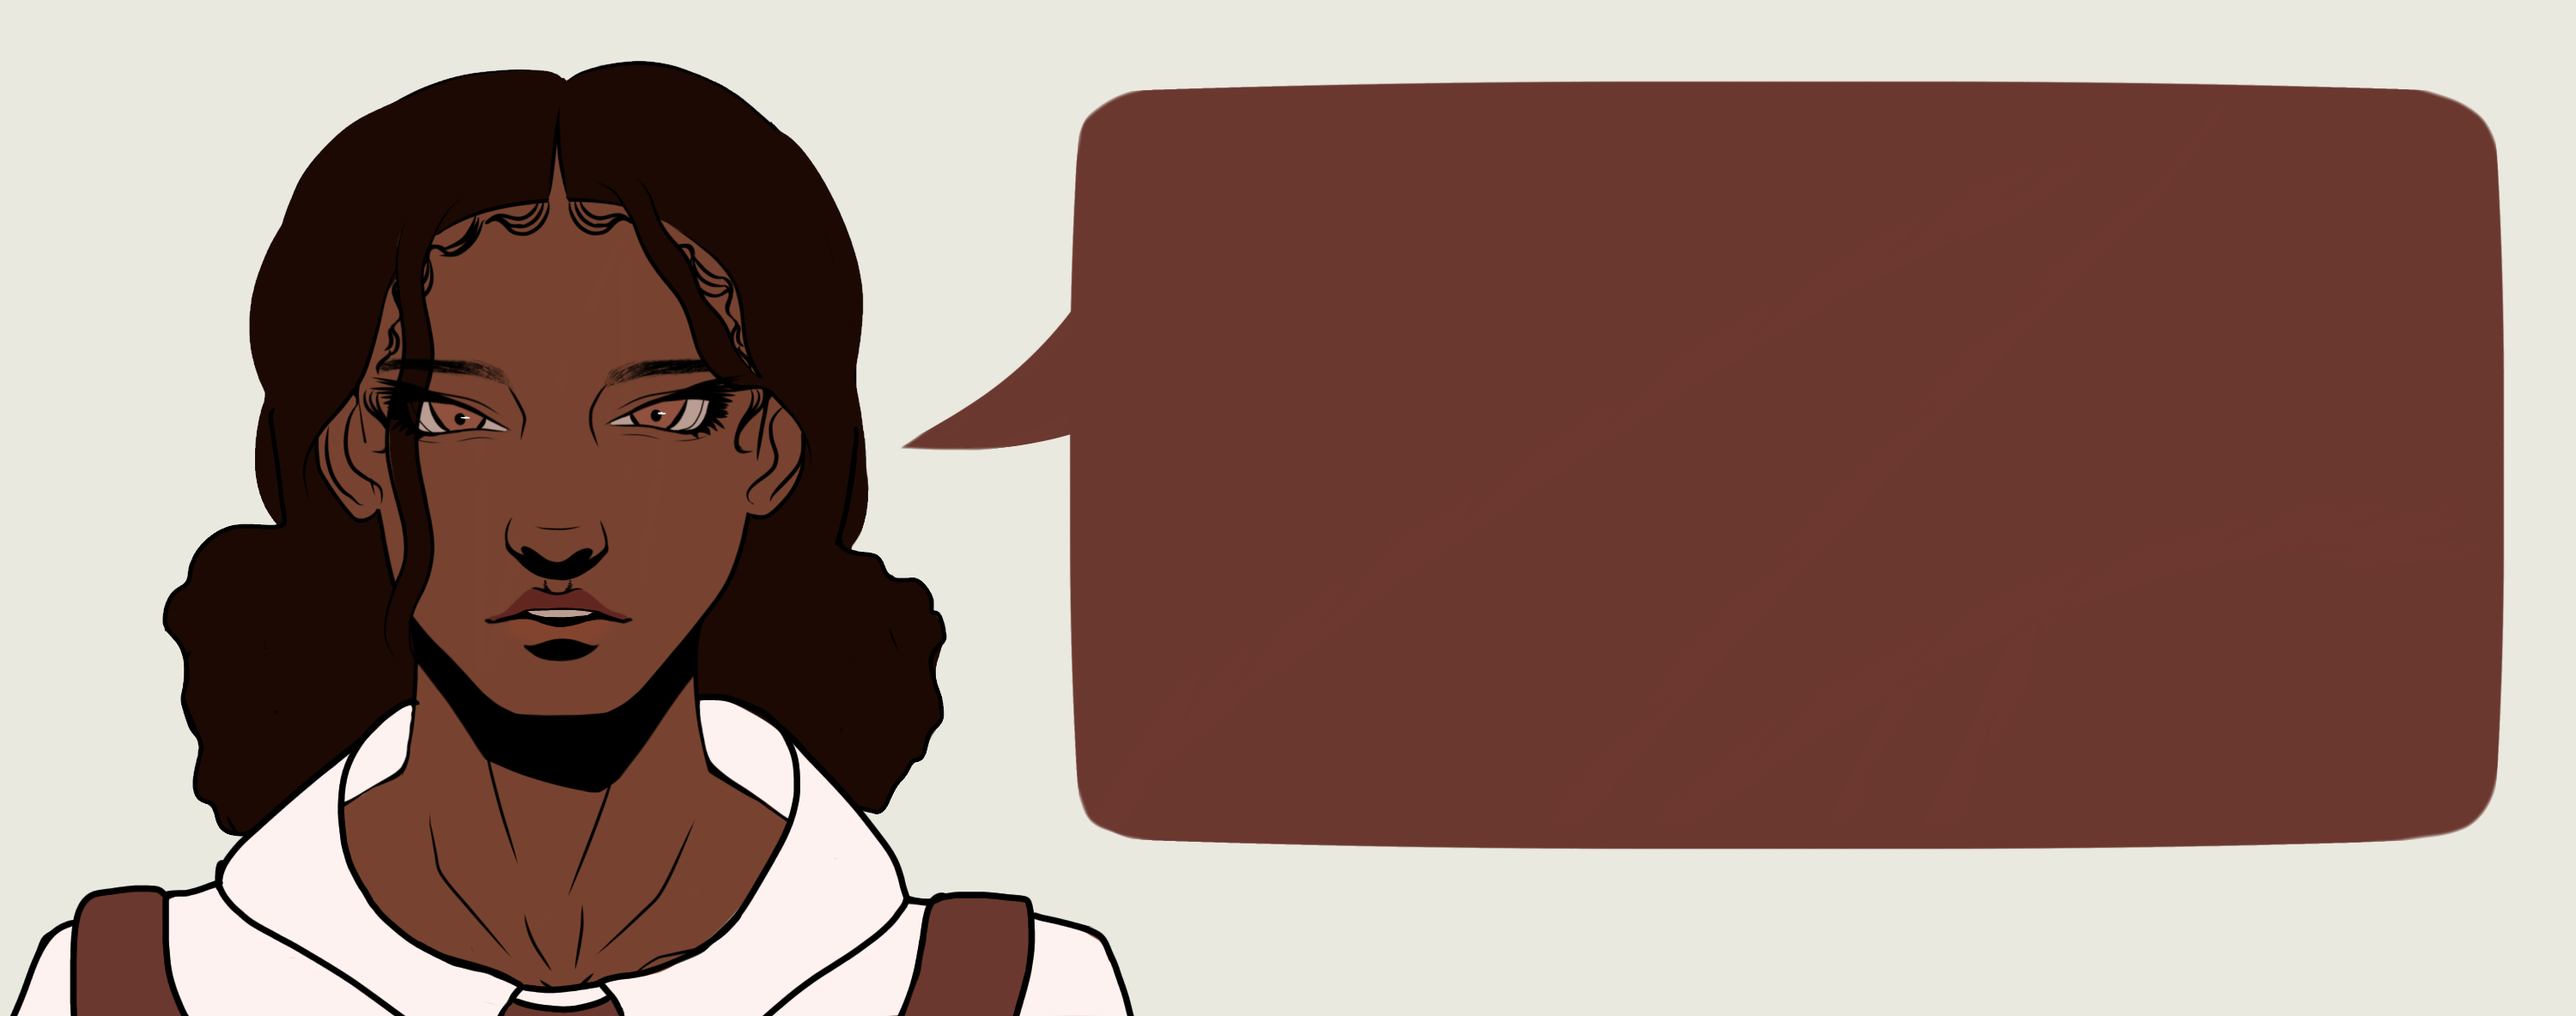
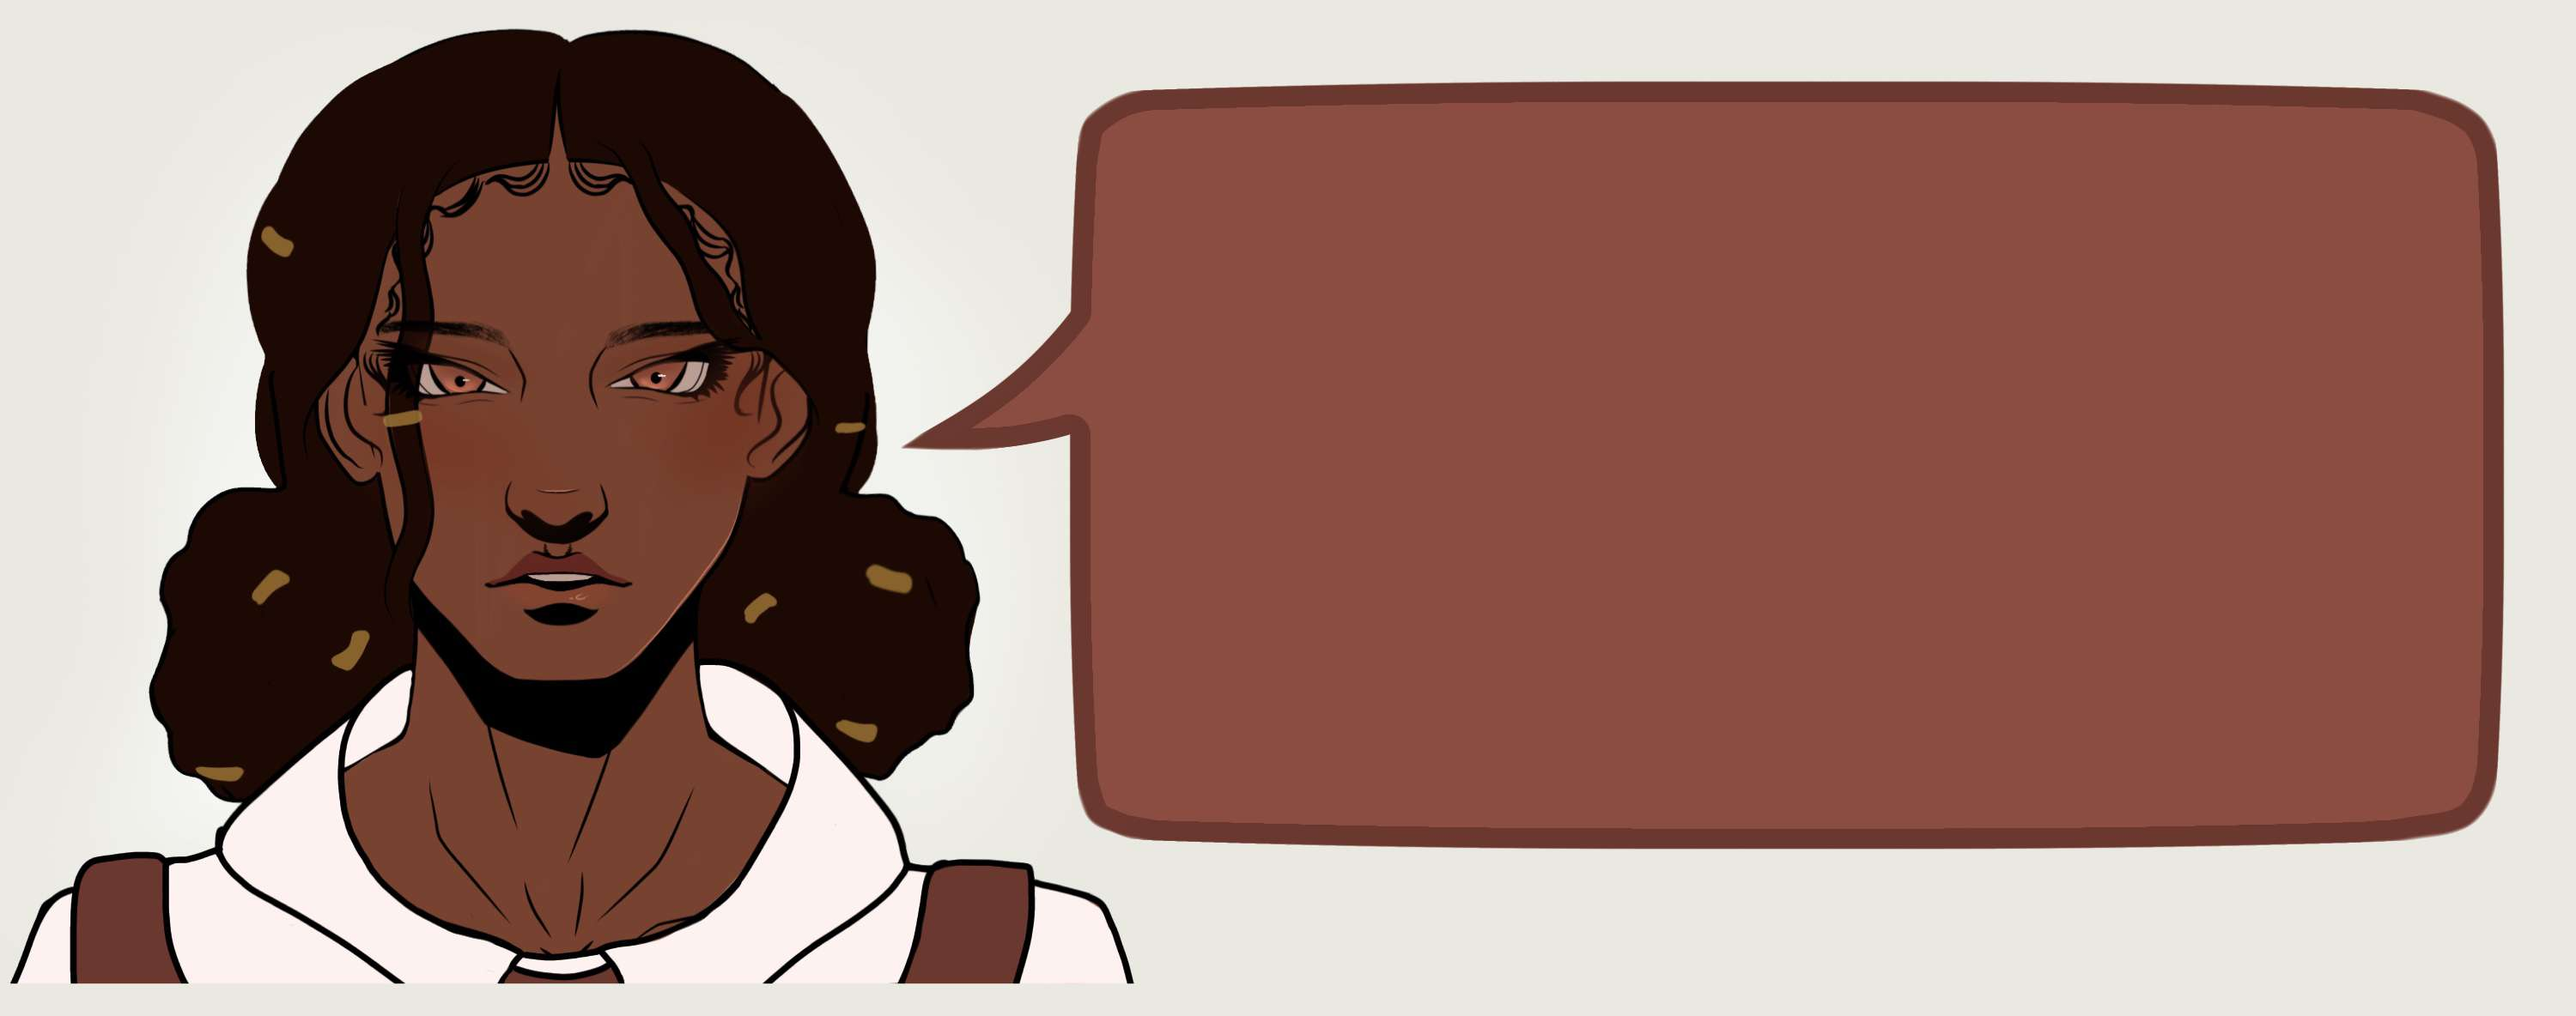
Added a streak counter for hiragana

diff --git a/Fun_Japanese_learning_GUI.py b/Fun_Japanese_learning_GUI.py
@@ -38,6 +38,7 @@ target_lt =None
 romaji = None
 entry_key = None
 feedback_label = None
+feedback = None
 
 
 
@@ -192,7 +193,7 @@ def kanji_mid():
 
 
 def hira_m():
-    global target_l,one,two,three,four, feedback_label
+    global target_l,one,two,three,four, feedback_label,feedback
     ext.page = 1
     side_bar()
 
@@ -201,23 +202,23 @@ def hira_m():
     feedback = ctk.CTkLabel(main_frame, fg_color=linen, image=ext.chest_begin_image, text="")
     feedback.place(relx = 0.57, rely = 0.24, relwidth = 0.75, relheight = 0.4, anchor = ctk.CENTER)
 
-    feedback_f = ctk.CTkFrame(main_frame, fg_color=dbrown,corner_radius=0, bg_color="transparent" )
-    feedback_f.place(relx=.715, rely=.22, relwidth=.4, relheight=.27, anchor = ctk.CENTER)
+    feedback_f = ctk.CTkFrame(main_frame, fg_color=brown,corner_radius=0, bg_color="transparent" )
+    feedback_f.place(relx=.715, rely=.22, relwidth=.4, relheight=.17, anchor = ctk.CENTER)
 
-    feedback_label = ctk.CTkLabel(feedback_f, fg_color=dbrown,corner_radius=0, bg_color="transparent", justify = "center", text = "Press the option that you believe to be correct to get started.", wraplength=330,font=(coolfont,18) )
+    feedback_label = ctk.CTkLabel(feedback_f, fg_color=brown,corner_radius=0, bg_color="transparent", justify = "center", text = "Press the option that you believe to be correct to get started.", wraplength=330,font=(coolfont,18) )
     feedback_label.place(relx=.5, rely=.5, relwidth=1, relheight=1, anchor = ctk.CENTER)
     
 
     target_l = ctk.CTkLabel(main_frame, fg_color=brown, border_color=dbrown, border_width=5, corner_radius=5, font=(coolfont,55, "bold"))
     target_l.place(relx= 0.57, rely= 0.5, relwidth = 0.8, relheight = 0.2, anchor = ctk.CENTER )
 
-    one = ctk.CTkButton(main_frame, fg_color=brown, corner_radius=5, border_color=dbrown, font=(coolfont,40, "bold"), border_width=5, hover_color=dbrown, command=lambda: ncp.check_answer(button = one, target_l=target_l, one=one, two=two, three=three, four=four, target_lt=target_lt, romaji=romaji, feedback_label=feedback_label))
+    one = ctk.CTkButton(main_frame, fg_color=brown, corner_radius=5, border_color=dbrown, font=(coolfont,40, "bold"), border_width=5, hover_color=dbrown, command=lambda: ncp.check_answer(button = one, target_l=target_l, one=one, two=two, three=three, four=four, target_lt=target_lt, romaji=romaji, feedback_label=feedback_label,feedback=feedback))
     one.place(relx = 0.37, rely = .7, relwidth = .37, relheight = 0.17, anchor = ctk.CENTER)
-    two = ctk.CTkButton(main_frame, fg_color=brown, corner_radius=5, border_color=dbrown, font=(coolfont,40, "bold"), border_width=5, hover_color=dbrown, command=lambda: ncp.check_answer(button = two, target_l=target_l, one=one, two=two, three=three, four=four, target_lt=target_lt, romaji=romaji, feedback_label=feedback_label))
+    two = ctk.CTkButton(main_frame, fg_color=brown, corner_radius=5, border_color=dbrown, font=(coolfont,40, "bold"), border_width=5, hover_color=dbrown, command=lambda: ncp.check_answer(button = two, target_l=target_l, one=one, two=two, three=three, four=four, target_lt=target_lt, romaji=romaji, feedback_label=feedback_label,feedback=feedback))
     two.place(relx = 0.77, rely = .7, relwidth = .37, relheight = 0.17, anchor = ctk.CENTER)
-    three = ctk.CTkButton(main_frame, fg_color=brown, corner_radius=5, border_color=dbrown, font=(coolfont,40, "bold"), border_width=5, hover_color=dbrown, command=lambda: ncp.check_answer(button = three, target_l=target_l, one=one, two=two, three=three, four=four, target_lt=target_lt, romaji=romaji, feedback_label=feedback_label))
+    three = ctk.CTkButton(main_frame, fg_color=brown, corner_radius=5, border_color=dbrown, font=(coolfont,40, "bold"), border_width=5, hover_color=dbrown, command=lambda: ncp.check_answer(button = three, target_l=target_l, one=one, two=two, three=three, four=four, target_lt=target_lt, romaji=romaji, feedback_label=feedback_label,feedback=feedback))
     three.place(relx = 0.37, rely = .88, relwidth = .37, relheight = 0.17, anchor = ctk.CENTER)
-    four = ctk.CTkButton(main_frame, fg_color=brown, corner_radius=5, border_color=dbrown, font=(coolfont,40, "bold"), border_width=5, hover_color=dbrown, command=lambda: ncp.check_answer(button = four, target_l=target_l, one=one, two=two, three=three, four=four, target_lt=target_lt, romaji=romaji, feedback_label=feedback_label))
+    four = ctk.CTkButton(main_frame, fg_color=brown, corner_radius=5, border_color=dbrown, font=(coolfont,40, "bold"), border_width=5, hover_color=dbrown, command=lambda: ncp.check_answer(button = four, target_l=target_l, one=one, two=two, three=three, four=four, target_lt=target_lt, romaji=romaji, feedback_label=feedback_label,feedback=feedback))
     four.place(relx = 0.77, rely = .88, relwidth = .37, relheight = 0.17, anchor = ctk.CENTER)
 
 def kana_m():

diff --git a/Nihongo_Charater_Practice.py b/Nihongo_Charater_Practice.py
@@ -24,6 +24,7 @@ now = dt.datetime.now()
 target = []
 final = []
 advanced = False
+streak = 0
 
 def status_check():
     global queue, now, advanced
@@ -90,16 +91,26 @@ def load_new_deck(target_l, one, two, three, four, target_lt, romaji):
             
 
 
-def check_answer(button, target_l, one, two, three, four, target_lt,romaji,feedback_label):
-    global target, now
+def check_answer(button, target_l, one, two, three, four, target_lt,romaji,feedback_label, feedback):
+    global target, now, streak
     now = dt.datetime.now()
     tries = 0
+   
     if ext.page == 1 or ext.page == 2:
         user_ans = button.cget("text")
     elif ext.page == 5:
          user_ans = romaji.get().strip().lower()
     if user_ans == target["romaji"] or user_ans == target["character"]:
-            feedback_label.configure(text="Goodjob, keep up the good work")
+            streak += 1
+            if streak ==5:
+                 feedback.configure(image=ext.chest_5_image)
+                 feedback_label.configure(text="Wow, you've gotten to a streak of 5!")
+            elif streak == 10:
+                 feedback.configure(image=ext.chest_10_image)
+                 feedback_label.configure(text="Woah...Streak of 10! Amazing..")
+            else:
+                feedback_label.configure(text="Goodjob, keep up the good work")
+                feedback.configure(image = ext.chest_right_image)
             if target["status"] != 10 and tries != 1:
                 target["status"] += 1
             target["due_time"] = now + stages[target["status"]]
@@ -116,6 +127,7 @@ def check_answer(button, target_l, one, two, three, four, target_lt,romaji,feedb
                  romaji.configure(state = "disabled")
                  romaji.after(250, lambda: [load_new_deck(target_l, one, two, three, four, target_lt, romaji), romaji.delete(0, "end")])
     else:
+            streak = 0
             if ext.page == 1 or ext.page ==2:
                 button.configure(fg_color = ext.wrong, border_color = ext.dwrong, state ="disabled" )
             elif ext.page == 5:
@@ -123,6 +135,7 @@ def check_answer(button, target_l, one, two, three, four, target_lt,romaji,feedb
                  romaji.delete(0, "end")
             if tries != 1:
                 feedback_label.configure(text="Oh no. Remember "+ target["mnemonic"] )
+                feedback.configure(image = ext.chest_wrong_image)
             if tries != 1:
                 if target["status"] != 0:
                     target["status"] -= 1

diff --git a/Extra.py b/Extra.py
@@ -21,3 +21,15 @@ chest_mid_image = ctk.CTkImage(size = (202.5,540), light_image=chest_mid, dark_i
 
 chest_begin = Image.open("chest_begin.png")
 chest_begin_image = ctk.CTkImage(size=(608,240),light_image=chest_begin,dark_image=chest_begin )
+
+chest_wrong = Image.open("chest_wrong.png")
+chest_wrong_image = ctk.CTkImage(size=(608,240),light_image=chest_wrong,dark_image=chest_wrong )
+
+chest_right = Image.open("chest_right.png")
+chest_right_image = ctk.CTkImage(size=(608,240),light_image=chest_right,dark_image=chest_right )
+
+chest_10 = Image.open("chest_10.png")
+chest_10_image = ctk.CTkImage(size=(608,240),light_image=chest_10,dark_image=chest_10 )
+
+chest_5 = Image.open("chest_5.png")
+chest_5_image = ctk.CTkImage(size=(608,240),light_image=chest_5,dark_image=chest_5 )
